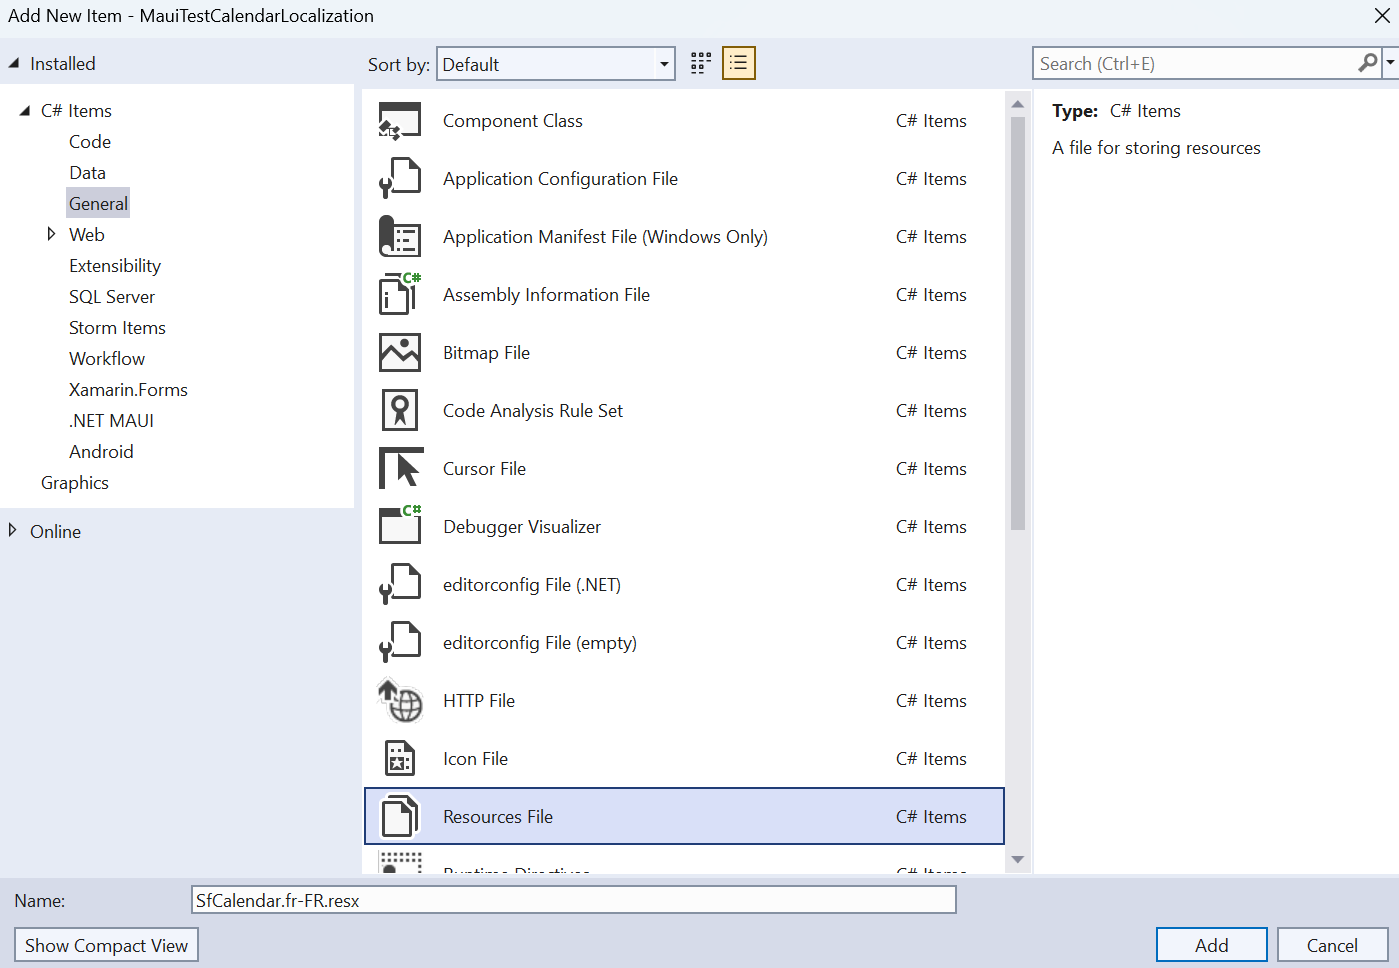
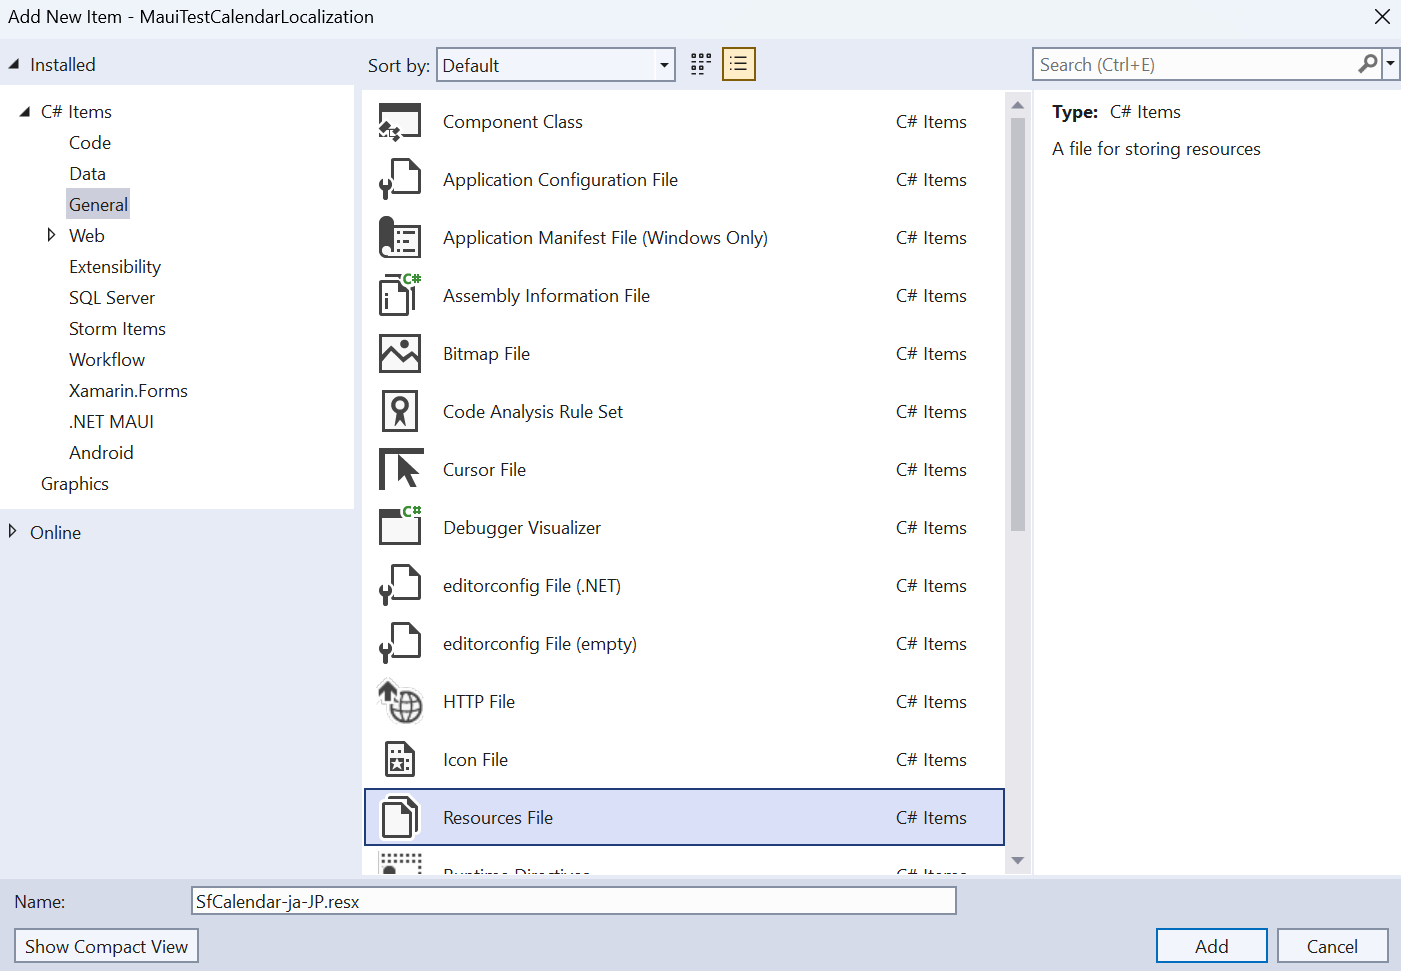
909362-Updated Files

diff --git a/MAUI/Calendar/localization.md b/MAUI/Calendar/localization.md
@@ -11,6 +11,8 @@ documentation: ug
 
 By default, the calendar control supports US English localizations. You can change to other languages by adding the `Globalization` namespace to your application.
 
+## Setting CurrentUICulture to the application
+
 The application culture can be changed by setting `CurrentUICulture`. in the `App.xaml.cs` file.
 
 {% tabs %}
@@ -24,7 +26,11 @@ public partial class App : Application
 	public App()
 	{
 		InitializeComponent();
+
+      //// ResXPath => Full path of the resx file; For example : // SfPickerResources.ResourceManager = new ResourceManager("MauiTestCalendarLocalization.Resources.SfCalendar", Application.Current.GetType().Assembly);
 		CultureInfo.CurrentUICulture = CultureInfo.CreateSpecificCulture("ja-JP");
+      SfCalendarResources.ResourceManager = new ResourceManager("ResxPath", Application.Current.GetType().Assembly);
+      MainPage = new AppShell();
 	}
 }
 
@@ -32,6 +38,9 @@ public partial class App : Application
 {% endtabs %}
 
 ![Month view localization in .NET MAUI Calendar.](images/localization/maui-month-view-localization.png)
+
+N>
+The required `resx` files with `Build Action` as `EmbeddedResource` (File name should contain culture code) into the `Resources` folder.
 
 ## Localize application level
 
@@ -41,7 +50,7 @@ To localize the `Calendar` based on `CurrentUICulture` using `resource` files, f
 
    2. Right-click on the `Resources` folder, select `Add` and then `NewItem.`
 
-   3. In Add New Item wizard, select the Resource File option and name the filename as `SfCalendar.<culture name>.resx.` For example, give the name as `SfCalendar.fr-FR.resx` for French culture.
+   3. In Add New Item wizard, select the Resource File option and name the filename as `SfCalendar.<culture name>.resx.` For example, give the name as `SfCalendar.ja-JP.resx` for French culture.
 
    4. The culture name indicates the name of the language and country.
 
@@ -51,6 +60,6 @@ To localize the `Calendar` based on `CurrentUICulture` using `resource` files, f
 
 		![shows-the-added-resource-file-for-french-language-in-maui-calendar](images/localization/shows-the-added-resource-file-for-french-language-in-maui-calendar.png)
 
-   6. Add the Name/Value pair in Resource Designer of `SfCalendar.fr-FR.resx` file and change its corresponding value to corresponding culture.
+   6. Add the Name/Value pair in Resource Designer of `SfCalendar.ja-JP.resx` file and change its corresponding value to corresponding culture.
 
    ![shows-the-added-resource-file-name-value-pair-in-the-resource-designer-in-maui-calendar](images/localization/shows-the-added-resource-file-name-value-pair-in-the-resource-designer-in-maui-calendar.png)
